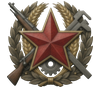
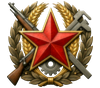
优化军改国策图标柔化效果

diff --git a/MOD制作日志.md b/MOD制作日志.md
@@ -6,8 +6,8 @@
 
 状态：**已完成，待完全重启游戏确认实际显示效果**
 
-- 根据国策树实机截图，调整“淬火成钢”和“革命功勋竞赛”两枚专属图标：抬高暗部与中间调，降低对比度和饱和度，使铁锤、铁砧、步枪、量具及花环在深色国策树背景上更容易辨认。
-- 对高解析金属微纹理和过硬边缘进行低分辨率软化与轻微模糊，减弱过于清晰的生成图质感，使其更接近 KR 既有国策图标的旧印刷和低像素观感。
+- 根据国策树实机截图，重新调整“淬火成钢”和“革命功勋竞赛”两枚专属图标：在抬高可读中间调的同时保留深黑轮廓，并明显提高明暗对比及红色、金色饱和度，避免图标在深色背景上呈现灰蒙、褪色的观感。
+- 仅对高解析金属微纹理和内部细线进行轻微模糊，不削弱主体轮廓、红星形状和大块色面，使其既保留 KR 图标的鲜明对比，也减弱过于清晰的生成图质感。
 - 保持图标原有构图、轮廓、透明通道、资源路径和 GFX 精灵名不变，因此不影响国策逻辑，也不需要修改存档兼容机制。
 
 ## 2026-08-01 — “革命功勋竞赛”专属国策图标
@@ -17,7 +17,7 @@
 - 为国策 `RUS_fr_revolutionary_merit_competition` 新制作独立图标，不再复用“火炬永不灭”的 `GFX_focus_RUS_red_october_never_fade`。
 - 图标以红星功勋章为中心，结合步枪、机械量具、齿轮、麦穗与月桂，分别表现战斗训练、技术竞赛、军工技能和集体荣誉；明确避开火炬、火焰、文字和个人英雄肖像。
 - 新资源保存为 `gfx/interface/goals/RUS_fr_military_reform/revolutionary_merit_competition.png`，画布为 `100×88` 透明 PNG，并注册普通与高亮动画精灵 `GFX_goal_RUS_fr_revolutionary_merit_competition` / `_shine`。
-- 原始图由内置图像生成工具在纯绿色键控背景上生成，随后移除色键、收缩边缘、去除绿色溢色，并在缩小过程中降低饱和度、对比度和过锐细节，使其更接近 KR 国策图标的旧式金属与印刷质感。
+- 原始图由内置图像生成工具在纯绿色键控背景上生成，随后移除色键、收缩边缘并去除绿色溢色；最终颜色、对比度与柔化程度以后续 `2026-08-02` 实机调整记录为准。
 - 同步为“淬火成钢”国策 `RUS_fr_all_russian_red_army_exercise` 制作专属图标：以铁锤、炽热钢坯、铁砧、红星、齿轮和对称麦穗表现红军在演习与制度检验中被反复锻造，不再使用带双头鹰意象的通用 `GFX_goal_RUS_army`。
 - “淬火成钢”资源保存为 `gfx/interface/goals/RUS_fr_military_reform/tempered_in_steel.png`，同样采用 `100×88` 透明画布，并注册 `GFX_goal_RUS_fr_tempered_in_steel` 及其 `_shine` 高亮动画。
 
